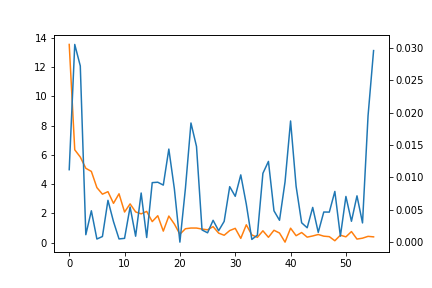
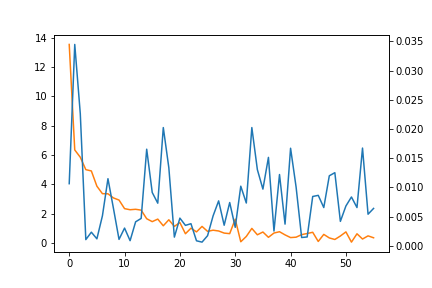
logistic done

diff --git a/spotify-billboard-analysis-2.py b/spotify-billboard-analysis-2.py
@@ -6,12 +6,11 @@ import itertools
 from collections import Counter
 from sklearn.preprocessing import MinMaxScaler
 from sklearn.cluster import KMeans
-from sklearn.metrics import silhouette_score, confusion_matrix
+from sklearn.metrics import silhouette_score, confusion_matrix, make_scorer
 from sklearn.linear_model import LogisticRegression
 from sklearn.ensemble import (RandomForestRegressor, RandomForestClassifier,
                               GradientBoostingRegressor, GradientBoostingClassifier)
-from sklearn.model_selection import cross_val_score, train_test_split, GridSearchCV
-from statsmodels.tsa.arima_model import ARIMA
+from sklearn.model_selection import train_test_split, GridSearchCV
 
 
 # Pipeline
@@ -35,7 +34,7 @@ for row in range(len(features['spotify_genre'])):
 features.drop(emptyGenreRows, axis=0, inplace=True)
 features = features[features['tempo'] != 0]
 features.dropna(inplace=True)
-features['spotify_genre'] = features['spotify_genre'].apply(lambda l: [s[1:-1] for s in l])
+features['spotify_genre'] = features['spotify_genre'].map(lambda l: [s[1:-1] for s in l])
 
 
 # Column insertion
@@ -241,7 +240,7 @@ Ygroups = []
 genreGroupCounts = []
 wcss = []
 silhouettes = []
-for k in range(4, 61):
+for k in range(2, 41):
     km = KMeans(k, n_init=100)
     Ygroup = km.fit_predict(Xcluster)
     counts = Counter(Ygroup)
@@ -253,22 +252,22 @@ for k in range(4, 61):
 
 # Visualize with elbow method
 fig, ax = plt.subplots()
-ax.plot(np.arange(4, 61), wcss)
+ax.plot(np.arange(2, 41), wcss)
 ax.set_xlabel("Number of clusters")
 ax.set_ylabel("WCSS")
 fig.savefig("images/elbow.png")
 
 fig, ax = plt.subplots()
-ax.plot(np.arange(56), np.abs(np.diff(wcss)), color="C1")
+ax.plot(np.arange(41-2), np.abs(np.diff(wcss)), color="C1")
 ax2 = ax.twinx()
-ax2.plot(np.arange(56), np.abs(np.diff(silhouettes)))
+ax2.plot(np.arange(41-2), np.abs(np.diff(silhouettes)))
 fig.savefig("images/wcssandsilhouettes.png")
 
 
-# Final clustering model: k=25
-km = KMeans(25, n_init=100)
+# Dual clustering model: k = 2
+km = KMeans(2, n_init=100)
 labels = km.fit_predict(Xcluster)
-genreBuckets = {i: [] for i in range(25)}
+genreBuckets = {i: [] for i in range(2)}
 for j in range(len(labels)):
     bucket = labels[j]
     genreBuckets[bucket].append(genres['spotify_genre'][j])
@@ -281,16 +280,20 @@ def get_bucket(genre: str, buckets: dict) -> int:
             return key
     return float("nan")
 
-featureBuckets = features.copy()
-featureBuckets['genre_bucket'] = featureBuckets['spotify_genre'].apply(lambda g: get_bucket(g, genreBuckets))
+featureBuckets = featureGenres.copy()
+featureBuckets['genre_bucket'] = [get_bucket(g, genreBuckets) for g in featureBuckets['spotify_genre']]
+featureBuckets = featureBuckets.groupby(['SongID']).mean()
+featureBuckets['genre_bucket'] = (featureBuckets['genre_bucket']+0.1).round()
 
 
 # Lower number of genres bc this is too complicated
 # Initial model: classify song as upbeat or chill
-topGenres = list(genres.sort_values(by="SongID", ascending=False)['spotify_genre'][0:200])
+'''
+topGenres = list(genres.sort_values(by="SongID", ascending=False)['spotify_genre'][0:100])
 featuresTopGenres = featureGenres[featureGenres['spotify_genre'].isin(topGenres)]
+
 def upbeat_chill_classifier(genre: str):
-    if "pop" in genre:
+    if "country" in genre:
         return "chill"
     elif "hip hop" in genre:
         return "upbeat"
@@ -300,16 +303,66 @@ def upbeat_chill_classifier(genre: str):
         return "upbeat"
     elif "rock" in genre:
         return "chill"
+    elif "pop" in genre:
+        return "chill"
     else:
         return "unclassified"
 
+classifiedGenres = list(map(upbeat_chill_classifier, topGenres))
+print(len(featuresTopGenres))
+print(len(pd.unique(featuresTopGenres['SongID'])))
+'''
+
+X = featureBuckets[featureBuckets.columns.difference(['genre_bucket'])]
+y = featureBuckets['genre_bucket']
+Xtrain, Xtest, ytrain, ytest = train_test_split(X, y, test_size=0.2, random_state=0)
+
+def create_confusion_matrix(y_test: np.array, y_pred: np.array) -> (int, int, int, int):
+    cm = confusion_matrix(y_test, y_pred)
+    tp = cm[0, 0]
+    fp = cm[0, 1]
+    fn = cm[1, 0]
+    tn = cm[1, 1]
+    return tp, fp, fn, tn
+
+def get_precision_recall(tp: int, fp: int, fn: int, tn: int) -> float:
+    precision = tp / (tp + fp)
+    recall = tp / (tp + fn)
+    return precision, recall
+
 
 # Logistic Regression
-lr = LogisticRegression()
+lr = LogisticRegression(C=1000, max_iter=1000).fit(Xtrain, ytrain)
+ypred = lr.predict(Xtest)
+print(lr.score(X, y))
+
+tp, fp, fn, tn = create_confusion_matrix(ytest, ypred)
+print(get_precision_recall(tp, fp, fn, tn))
 
 
 # Random Forest
+numTrees = np.arange(50, 201, 10)
+numFeatures = np.arange(4, 11)
+parameters = {"n_estimators": numTrees, "max_features": numFeatures}
+#scorer = make_scorer(log_loss, greater_is_better = False)
+accuracy = []
+
 rf = RandomForestClassifier()
+cv = GridSearchCV(rf, parameters, n_jobs=-1).fit(Xtrain, ytrain)
+print(cv.best_params_)
+
+for n in numTrees:
+    a = 0
+    for i in range(5):
+        rf = RandomForestClassifier(n, oob_score=True, n_jobs=-1).fit(Xtrain, ytrain)
+        # y_predict = rf.predict(X_test)
+        a += rf.score(Xtest, ytest) / 5
+    accuracy.append(a)
+
+fig, ax = plt.subplots()
+ax.plot(numTrees, accuracy)
+ax.set_title("RF accuracy by number of trees")
+plt.savefig("images/accuracyTrees.png")
 
 
 # Gradient Boosting

diff --git a/spotify-billboard-analysis-1.py b/spotify-billboard-analysis-1.py
@@ -24,7 +24,7 @@ for row in range(len(features['spotify_genre'])):
 features.drop(emptyGenreRows, axis=0, inplace=True)
 features = features[features['tempo'] != 0]
 features.dropna(inplace=True)
-features['spotify_genre'] = features['spotify_genre'].apply(lambda l: [s[1:-1] for s in l])
+features['spotify_genre'] = features['spotify_genre'].map(lambda l: [s[1:-1] for s in l])
 
 
 # Derived dataframes
